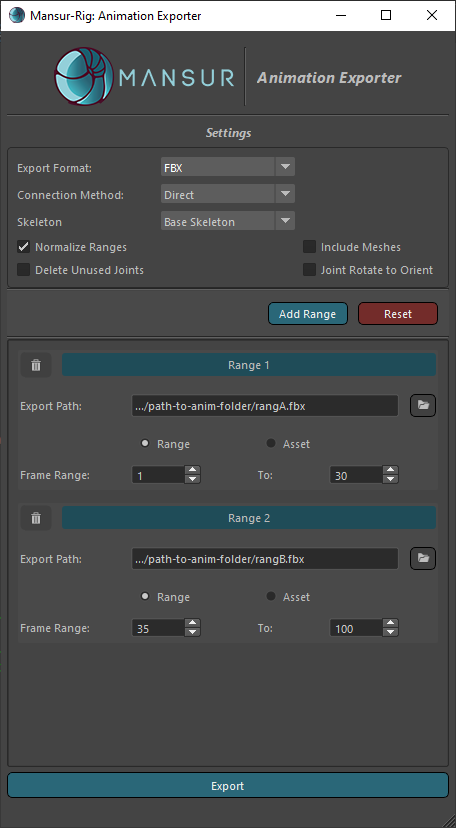
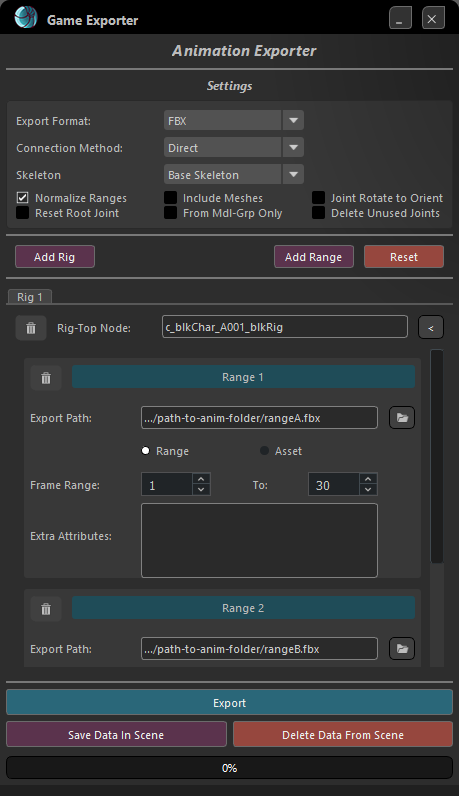
game exporter docs updated

diff --git a/docs/userGuides/Game-Exporter.md b/docs/userGuides/Game-Exporter.md
@@ -29,6 +29,7 @@
     </li>
     <li>The settings you selected will be saved within the current scene. So you can define the animation ranges for the selected scene once, then once you re-open the tool the settings will automatically load into the dialog.</li>
     <li>It is possible to export an asset as well as animation ranges in the same batch, in case needed.</li>
+    <li>This tool supports multiple rig exports
   </ol>
   </li>
 </ol>
@@ -53,8 +54,19 @@
       <li>Offset Skeleton - This option will bake and export the offset skeleton instead of the main skeleton, in case it exists.</li>
     </ul>
   </li>
-  <li>Normalize Ranges- If checked, the animation ranges will be normalized to start from frame 1. For example, if the animation range selected is 30f-100f, the exported animation range will be normalized to 1f-70f. In case this isn't chacked, the selected range will be preserved. This is most useful in case you export multiple ranges from the same scene.</li>
-  <li>Delete Unused Nodes- If checked, while extracting the skeleton from the rig, any joints that are not used in any connected skin cluster, will be removed from the heirarchy. This is most useful for performance maximization in game engined. Be-Aware! This means that the extracted skeleton heirarchy will be different then the one present in the rig, and any changes within the skin clusters related to the heirarchy will requst in a different skeleton structure.</li>
-  <li>Include Meshes- If checked, the aniamtion exported will contain the skeleton's connected skinned meshed. This is only relevant in "range" mode. It is always true in "Asset" mode.</li>
-  <li>Joint Rotate To Orient- If checked, after the skeleton is extracted at base state, all joint rotation values will be converted to 'joint orient' values.</li>
+  <li>Export Settings
+    <ul>
+      <li>Normalize Ranges- If checked, the animation ranges will be normalized to start from frame 1. For example, if the animation range selected is 30f-100f, the exported animation range will be normalized to 1f-70f. In case this isn't chacked, the selected range will be preserved. This is most useful in case you export multiple ranges from the same scene.</li>
+      <li>Reset Root Joint - If checked, after asset/animation extraction, animation for the root joint will be deleted, and it will be reset to origin
+      <li>Include Meshes- If checked, the aniamtion exported will contain the skeleton's connected skinned meshed. This is only relevant in "range" mode. It is always true in "Asset" mode.</li>
+      <li>From mdl-Grp Only- Normally, all skinned meshes to the selected skeleton will be extracted. If this is checked, only geometry under Block's Model-Group will be extracted. 
+      <li>Joint Rotate To Orient- If checked, after the skeleton is extracted at base state, all joint rotation values will be converted to 'joint orient' values.</li>
+      <li>Delete Unused Nodes- If checked, while extracting the skeleton from the rig, any joints that are not used in any connected skin cluster, will be removed from the heirarchy. This is most useful for performance maximization in game engined. Be-Aware! This means that the extracted skeleton heirarchy will be different then the one present in the rig, and any changes within the skin clusters related to the heirarchy will requst in a different skeleton structure.</li>
+    </ul>
+  </li>
+  <li>Add Rig- In case you need to export animations from multiple rigs in the same scene, you this button to add another rig tab to the view</li>
+  <li>Reset- Reset current rig tab. i.e. Delete all ranges and rig top name</li>
+  <li>Add Range- Add another range/asset to the current rig view</li>
+  <li>Rig Top Name- Set the rig-top to export. This will be Block's rig top node. Simply select the node, and click the < button on the right to input it into the field</li>
+  <li>Ranges/Assets View- This is where you set all of the targets for your export, for the current rig-top selected.</li>
 </ol>
